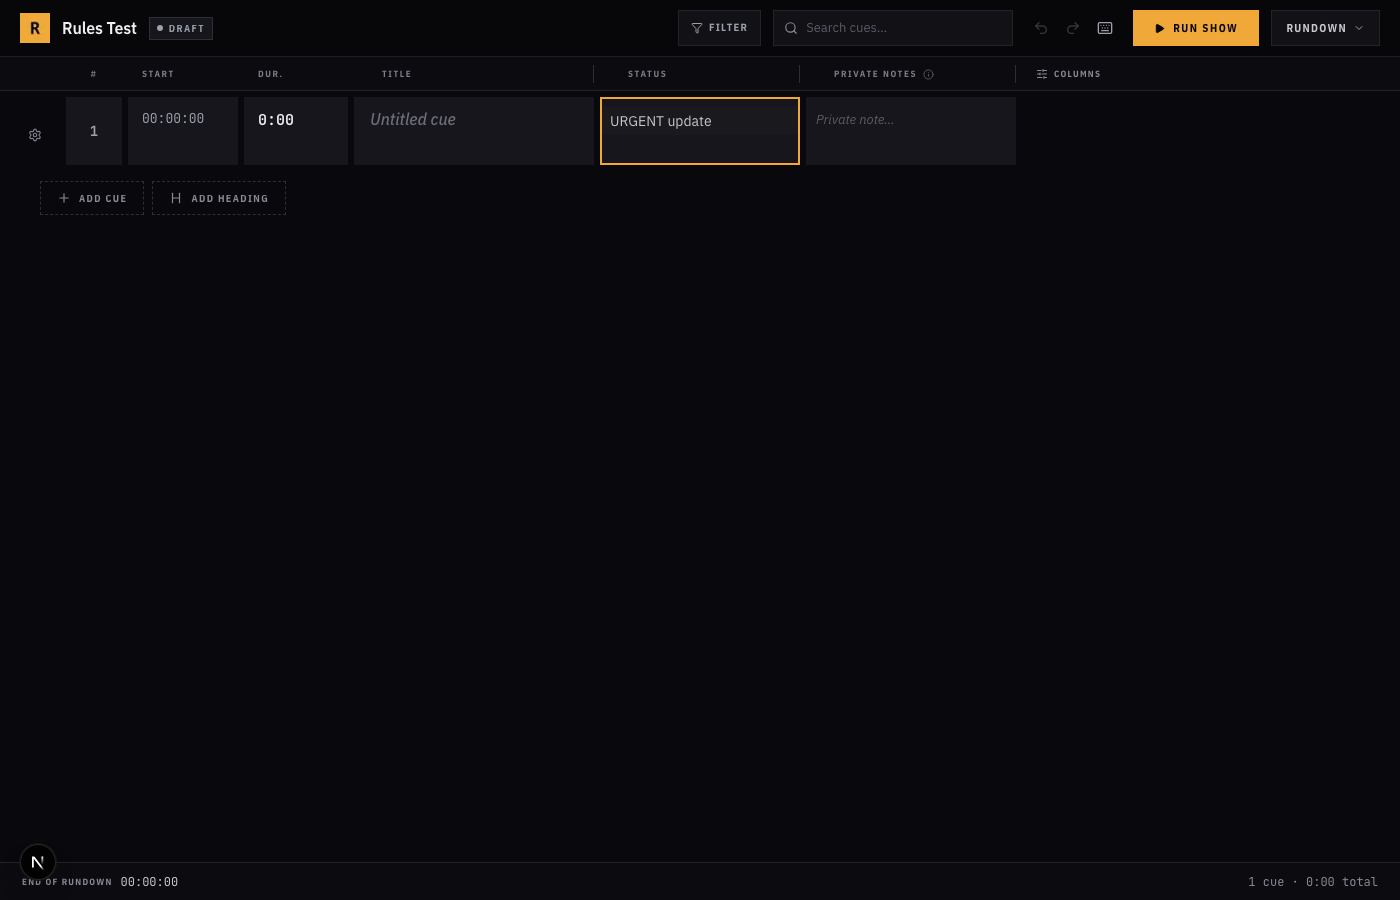
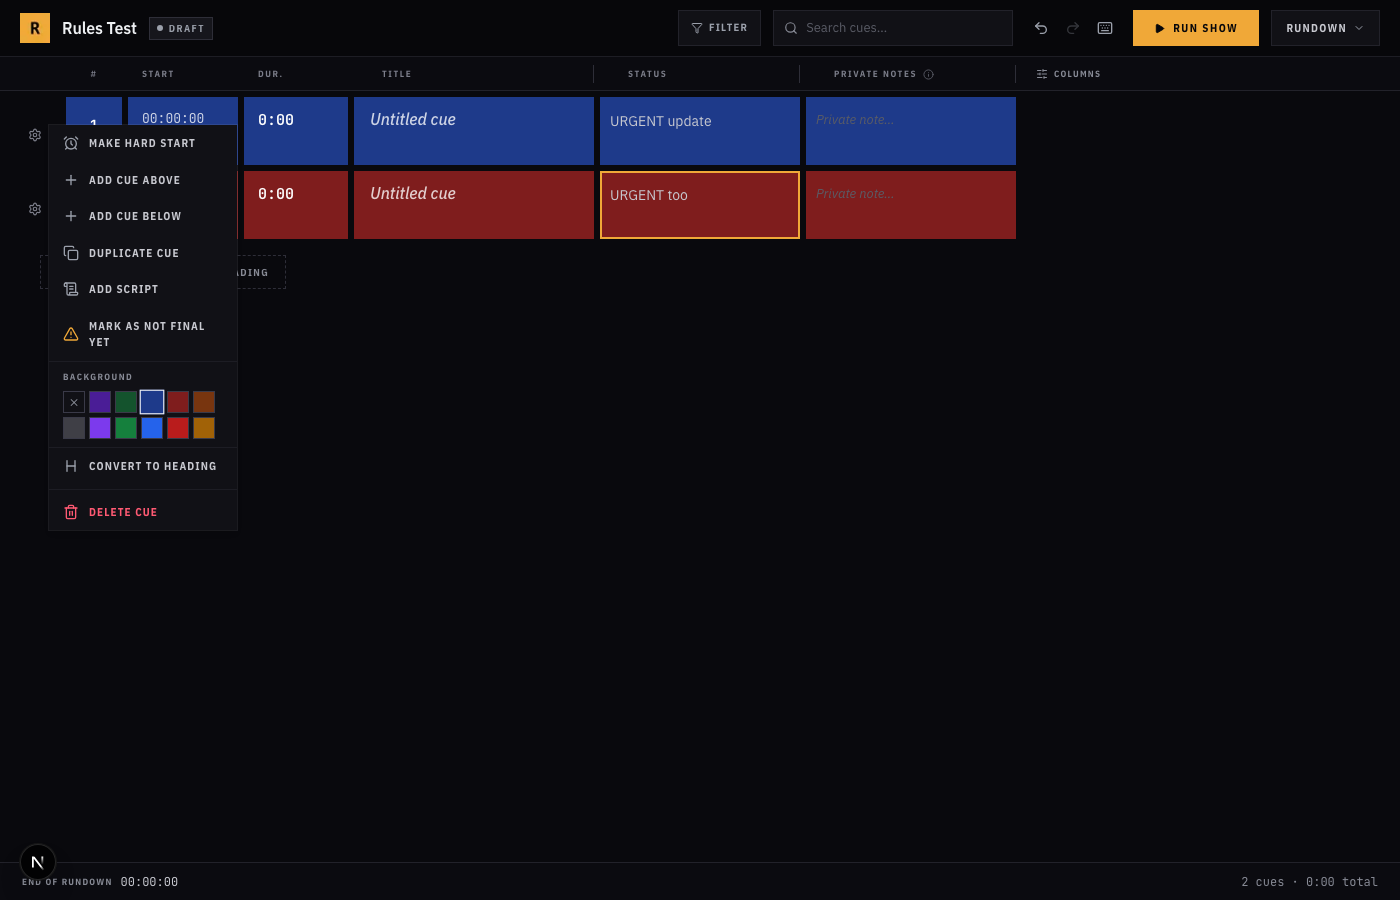
rules update

diff --git a/src/components/rundown/RundownEditor.tsx b/src/components/rundown/RundownEditor.tsx
@@ -170,10 +170,6 @@ export function RundownEditor({
   // (row color/badges) apply for everyone including collaborators.
   const [rules, setRules] = useState<RundownRule[]>(rundown.rules ?? [])
   const [rulesOpen, setRulesOpen] = useState(false)
-  const handleRulesChange = useCallback((next: RundownRule[]) => {
-    setRules(next)
-    updateRundownRules(rundown.id, next)
-  }, [rundown.id])
 
   const [settingsOpen, setSettingsOpen] = useState(false)
   const [settingsTab, setSettingsTab] = useState<'display' | 'numbering'>('display')
@@ -185,6 +181,12 @@ export function RundownEditor({
   const [duplicatingIds, setDuplicatingIds] = useState<Set<string>>(new Set())
   const [batchDuplicating, setBatchDuplicating] = useState(false)
   const { saveStatus, trackSave } = useSaveStatus()
+  const handleRulesChange = useCallback((next: RundownRule[]) => {
+    setRules(next)
+    trackSave(updateRundownRules(rundown.id, next)).then((r) => {
+      if (r?.error) toast.error(r.error)
+    })
+  }, [rundown.id, trackSave])
   const [finalizeWarningOpen, setFinalizeWarningOpen] = useState(false)
   const [filters, setFilters] = useState<CueFilterState>(() => emptyFilters())
   const [selectedIds, setSelectedIds] = useState<Set<string>>(new Set())